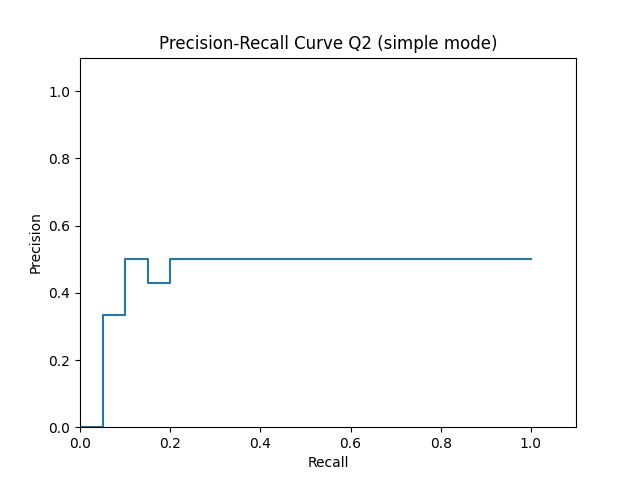
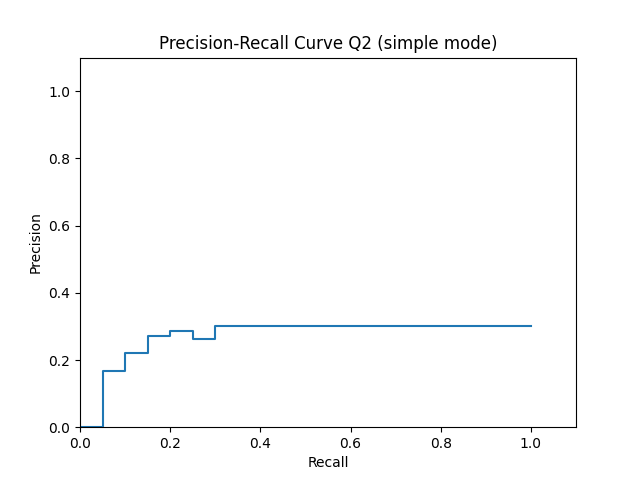
query 2 results done

diff --git a/docs/milestone2/notes.md b/docs/milestone2/notes.md
@@ -22,10 +22,10 @@ Ops: London AND London Eye
 
 Q2
 
-Query: Hotels with good breakfast or affordable room service in new delhy<br>
+Query: Hotels with good breakfast or great room service in new delhy<br>
 Justificação: <br>
-Words: Good breakfast affordable room service <br>
-Ops: Good breakfast OR affordable room service <br>
+Words: good breakfast great room service <br>
+Ops: good breakfast OR great room service <br>
 
 Q3
 
